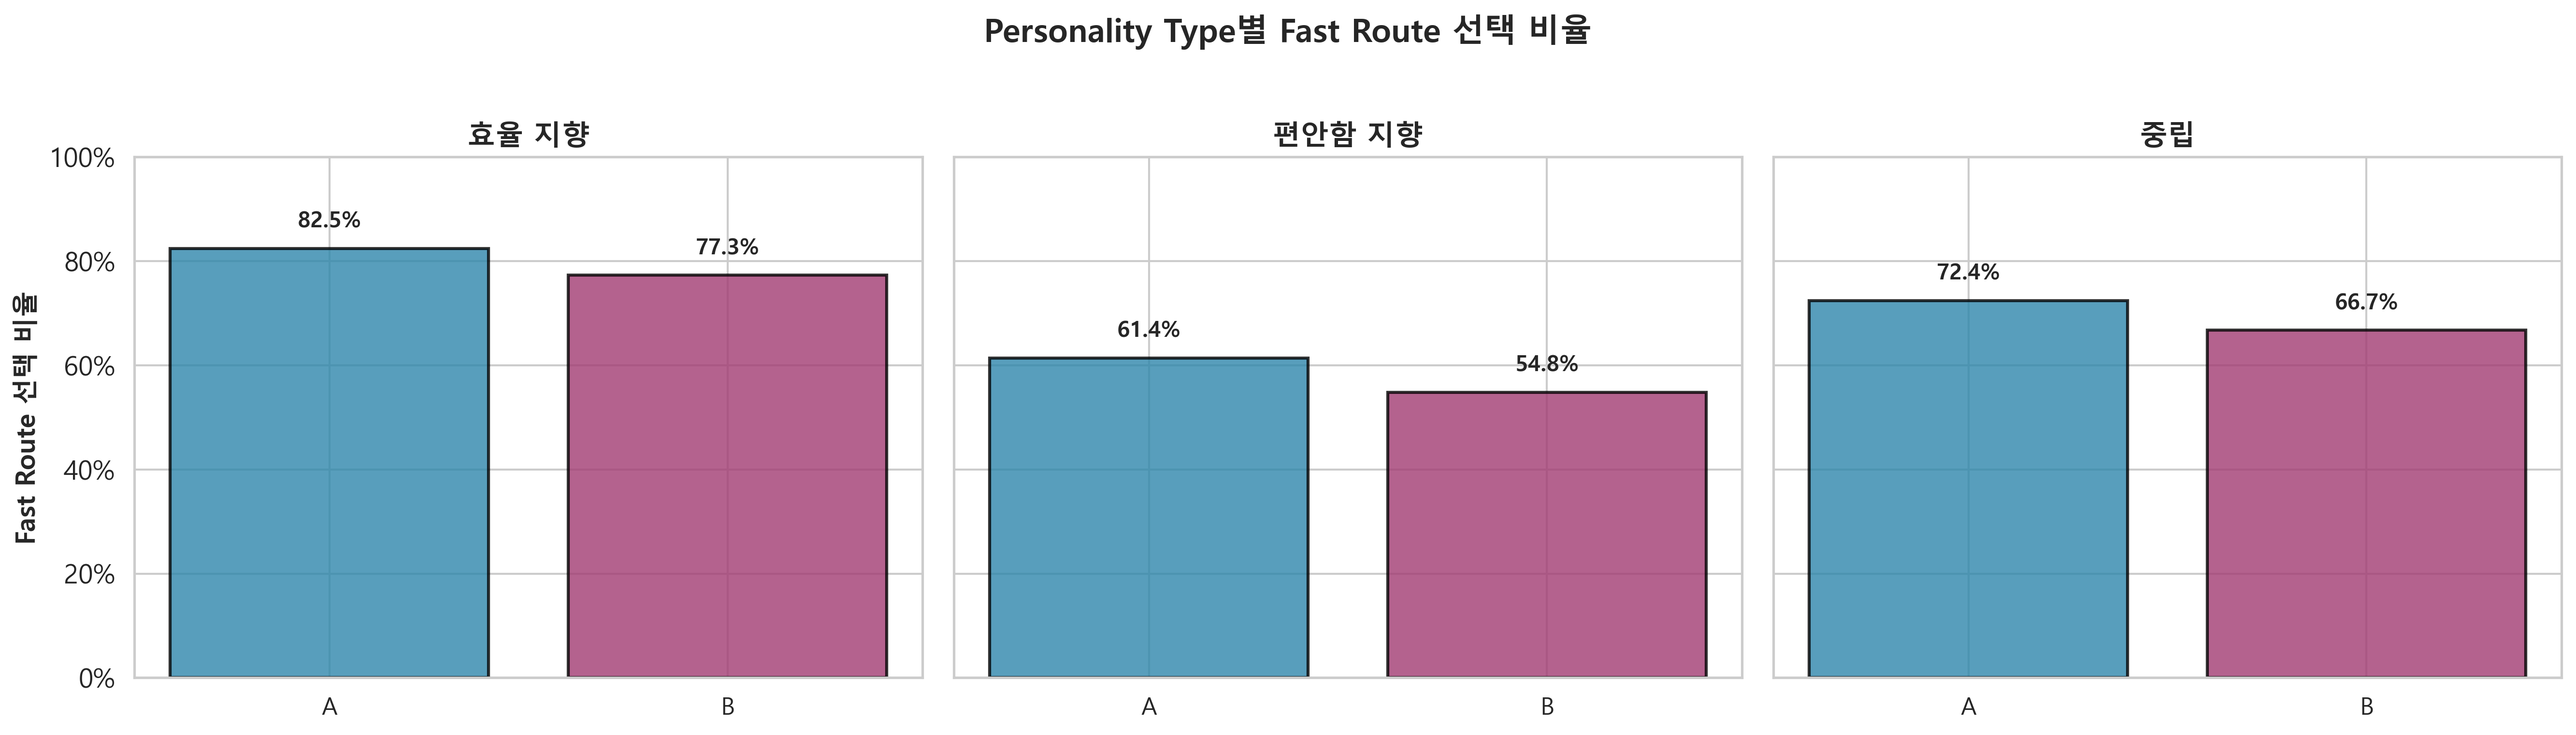
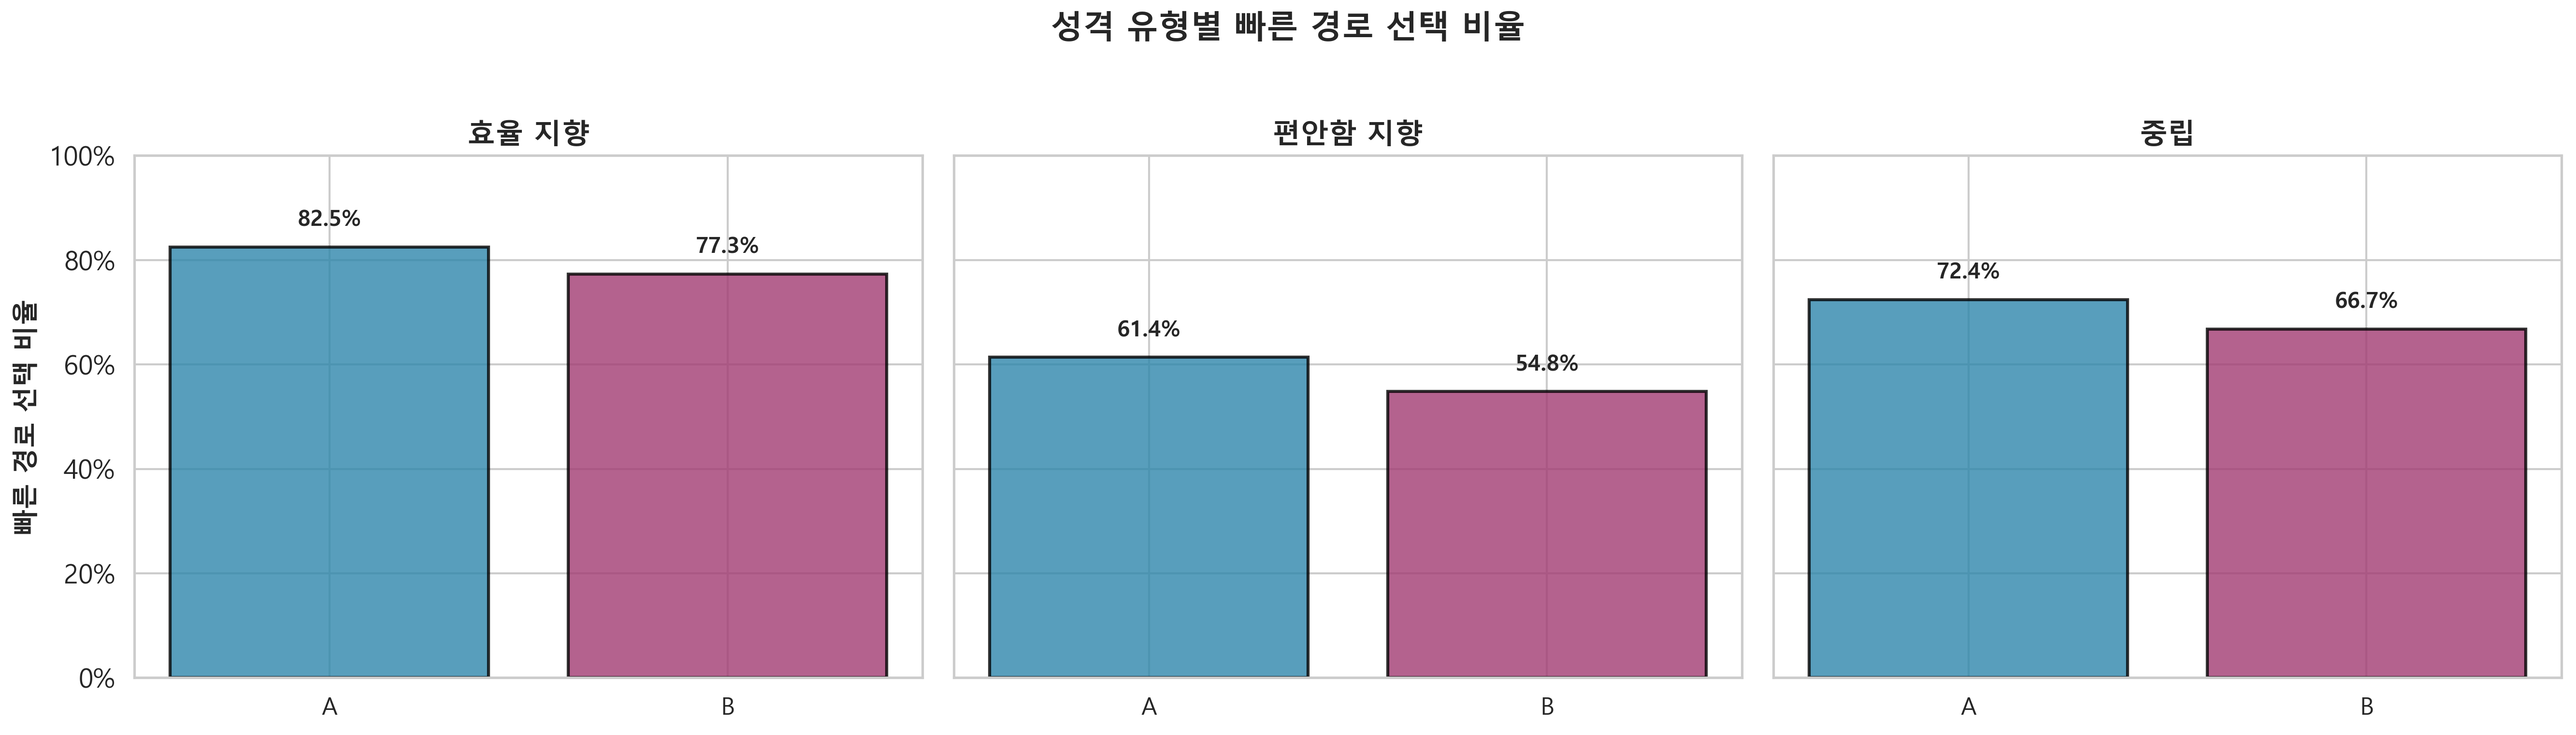
한국어 변환: 시각화/비교분석 그래프 영어 텍스트 한국어로 변경
- Fast Route → 빠른 경로, Relax Route → 여유 경로
- Personality Type → 성격 유형
- Time Pressure → 시간 압박 정도
- Trial → 시행, Boxplot → 박스플롯
- 변경된 matplotlib 차트 7개 재생성 (figures/)

🤖 Generated with [Claude Code](https://claude.com/claude-code)

diff --git a/analysis/visualization.py b/analysis/visualization.py
@@ -138,8 +138,8 @@ def plot_ab_comparison(df, output_dir):
                 ha='center', va='bottom', fontsize=14, fontweight='bold')
 
     ax.set_xlabel('그룹', fontsize=14, fontweight='bold')
-    ax.set_ylabel('Fast Route 선택 비율', fontsize=14, fontweight='bold')
-    ax.set_title('A/B 그룹별 Fast Route 선택 비율 비교',
+    ax.set_ylabel('빠른 경로 선택 비율', fontsize=14, fontweight='bold')
+    ax.set_title('A/B 그룹별 빠른 경로 선택 비율 비교',
                  fontsize=16, fontweight='bold', pad=20)
     ax.set_ylim(0, 1)
     ax.yaxis.set_major_formatter(plt.FuncFormatter(lambda y, _: f'{y*100:.0f}%'))
@@ -201,9 +201,9 @@ def plot_personality_breakdown(df, output_dir):
         ax.yaxis.set_major_formatter(plt.FuncFormatter(lambda y, _: f'{y*100:.0f}%'))
 
         if i == 0:
-            ax.set_ylabel('Fast Route 선택 비율', fontsize=13, fontweight='bold')
+            ax.set_ylabel('빠른 경로 선택 비율', fontsize=13, fontweight='bold')
 
-    fig.suptitle('Personality Type별 Fast Route 선택 비율',
+    fig.suptitle('성격 유형별 빠른 경로 선택 비율',
                  fontsize=16, fontweight='bold', y=1.02)
     plt.tight_layout()
 
@@ -244,9 +244,9 @@ def plot_trial_trends(df, output_dir):
                 'o-', color=color, linewidth=3, markersize=10,
                 label=f'그룹 {group}', alpha=0.8)
 
-    ax.set_xlabel('Trial 번호', fontsize=14, fontweight='bold')
-    ax.set_ylabel('Fast Route 선택 비율', fontsize=14, fontweight='bold')
-    ax.set_title('Trial별 Fast Route 선택 비율 변화 (학습 효과)',
+    ax.set_xlabel('시행 번호', fontsize=14, fontweight='bold')
+    ax.set_ylabel('빠른 경로 선택 비율', fontsize=14, fontweight='bold')
+    ax.set_title('시행별 빠른 경로 선택 비율 변화 (학습 효과)',
                  fontsize=16, fontweight='bold', pad=20)
     ax.set_xticks(range(1, config.NUM_TRIALS + 1))
     ax.set_ylim(0, 1)
@@ -288,15 +288,15 @@ def plot_congestion_heatmap(df, output_dir):
     fig, ax = plt.subplots(figsize=(10, 6))
 
     sns.heatmap(heatmap_pivot, annot=True, fmt='.2%', cmap='RdYlGn',
-                cbar_kws={'label': 'Fast Route 선택 비율'},
+                cbar_kws={'label': '빠른 경로 선택 비율'},
                 linewidths=1, linecolor='white',
                 vmin=0, vmax=1, ax=ax)
 
-    ax.set_xlabel('Time Pressure', fontsize=13, fontweight='bold')
+    ax.set_xlabel('시간 압박 정도', fontsize=13, fontweight='bold')
     # X축 레이블 명시화
     ax.set_xticklabels(['급함(0)', '보통(1)', '여유(2)'])
-    ax.set_ylabel('Personality Type', fontsize=13, fontweight='bold')
-    ax.set_title('Time Pressure × Personality별 Fast Route 선택 비율',
+    ax.set_ylabel('성격 유형', fontsize=13, fontweight='bold')
+    ax.set_title('시간 압박 × 성격 유형별 빠른 경로 선택 비율',
                  fontsize=15, fontweight='bold', pad=20)
 
     # Y축 레이블 변경
@@ -391,7 +391,7 @@ def plot_satisfaction_distribution(df, output_dir):
         patch.set_alpha(0.7)
 
     axes[1].set_ylabel('만족도 점수', fontsize=13, fontweight='bold')
-    axes[1].set_title('만족도 점수 분포 (Boxplot)', fontsize=14, fontweight='bold')
+    axes[1].set_title('만족도 점수 분포 (박스플롯)', fontsize=14, fontweight='bold')
     axes[1].grid(axis='y', alpha=0.3, linestyle='--')
 
     plt.tight_layout()
@@ -418,14 +418,14 @@ def plot_congestion_dynamics(df, output_dir):
 
     ax.plot(trial_congestion['trial_number'], trial_congestion['congestion_fast'],
             'o-', color='#E63946', linewidth=3, markersize=10,
-            label='Fast Route 혼잡도', alpha=0.8)
+            label='빠른 경로 혼잡도', alpha=0.8)
     ax.plot(trial_congestion['trial_number'], trial_congestion['congestion_relax'],
             's-', color='#06A77D', linewidth=3, markersize=10,
-            label='Relax Route 혼잡도', alpha=0.8)
+            label='여유 경로 혼잡도', alpha=0.8)
 
-    ax.set_xlabel('Trial 번호', fontsize=14, fontweight='bold')
+    ax.set_xlabel('시행 번호', fontsize=14, fontweight='bold')
     ax.set_ylabel('평균 혼잡도 (%)', fontsize=14, fontweight='bold')
-    ax.set_title('Trial별 경로 혼잡도 변화 (동적 피드백)',
+    ax.set_title('시행별 경로 혼잡도 변화 (동적 피드백)',
                  fontsize=16, fontweight='bold', pad=20)
     ax.set_xticks(range(1, config.NUM_TRIALS + 1))
     ax.legend(fontsize=12, loc='upper right')
@@ -466,10 +466,11 @@ def plot_learning_effect(df, output_dir):
         ax.text(i, row['next_fast_rate'] + 0.03, f"{row['next_fast_rate']*100:.2f}%",
                 ha='center', va='bottom', fontsize=13, fontweight='bold')
 
+    choice_labels = {'Fast': '빠른 경로', 'Relax': '여유 경로'}
     ax.set_xticks(range(len(learning_stats)))
-    ax.set_xticklabels([f'이전: {choice}' for choice in learning_stats['previous_choice']],
+    ax.set_xticklabels([f'이전: {choice_labels.get(choice, choice)}' for choice in learning_stats['previous_choice']],
                        fontsize=12)
-    ax.set_ylabel('다음 Trial Fast 선택 비율', fontsize=13, fontweight='bold')
+    ax.set_ylabel('다음 시행 빠른 경로 선택 비율', fontsize=13, fontweight='bold')
     ax.set_title('학습 효과: 이전 선택에 따른 다음 선택 변화',
                  fontsize=15, fontweight='bold', pad=20)
     ax.set_ylim(0, 1)

diff --git a/app.py b/app.py
@@ -210,7 +210,7 @@ def page_overview():
     trial_stats.columns = ['Trial', 'Fast 선택률 (%)']
 
     fig = px.line(trial_stats, x='Trial', y='Fast 선택률 (%)',
-                  title='Trial별 Fast 선택률 변화',
+                  title='시행별 빠른 경로 선택률 변화',
                   markers=True, line_shape='spline')
     fig.update_layout(height=400)
     fig.add_hline(y=70, line_dash="dash", line_color="red",
@@ -384,9 +384,9 @@ def page_statistics():
         ))
 
         fig.update_layout(
-            title='Trial별 Fast 선택률 변화',
-            xaxis_title='Trial',
-            yaxis_title='Fast 선택률 (%)',
+            title='시행별 빠른 경로 선택률 변화',
+            xaxis_title='시행',
+            yaxis_title='빠른 경로 선택률 (%)',
             height=500
         )
 
@@ -403,8 +403,8 @@ def page_statistics():
 
         # Personality별 차트
         fig = px.bar(pers_df, x='personality', y='fast_rate',
-                     title='Personality 유형별 Fast 선택률',
-                     labels={'personality': 'Personality 유형', 'fast_rate': 'Fast 선택률'},
+                     title='성격 유형별 빠른 경로 선택률',
+                     labels={'personality': '성격 유형', 'fast_rate': '빠른 경로 선택률'},
                      color='fast_rate',
                      color_continuous_scale='Blues')
 
@@ -525,6 +525,7 @@ def page_interactive():
                     labels={'assigned_group': '그룹', 'percentage': '선택률 (%)', 'selected_route': '경로'},
                     barmode='group',
                     color_discrete_map={'Fast': '#E63946', 'Relax': '#06A77D'})
+        fig.for_each_trace(lambda t: t.update(name='빠른 경로' if t.name == 'Fast' else '여유 경로'))
 
         fig.update_layout(height=500)
         st.plotly_chart(fig, use_container_width=True)
@@ -539,6 +540,7 @@ def page_interactive():
                               'selected_route': '경로'},
                        box=True,
                        color_discrete_map={'Fast': '#E63946', 'Relax': '#06A77D'})
+        fig.for_each_trace(lambda t: t.update(name='빠른 경로' if t.name == 'Fast' else '여유 경로'))
 
         fig.update_layout(height=500)
         st.plotly_chart(fig, use_container_width=True)
@@ -554,12 +556,13 @@ def page_interactive():
                         x='congestion_fast',
                         y='congestion_relax',
                         color='selected_route',
-                        title='Fast 혼잡도 vs Relax 혼잡도 (샘플 5000개)',
-                        labels={'congestion_fast': 'Fast 경로 혼잡도',
-                               'congestion_relax': 'Relax 경로 혼잡도',
+                        title='빠른 경로 혼잡도 vs 여유 경로 혼잡도 (샘플 5000개)',
+                        labels={'congestion_fast': '빠른 경로 혼잡도',
+                               'congestion_relax': '여유 경로 혼잡도',
                                'selected_route': '선택한 경로'},
                         opacity=0.5,
                         color_discrete_map={'Fast': '#E63946', 'Relax': '#06A77D'})
+        fig.for_each_trace(lambda t: t.update(name='빠른 경로' if t.name == 'Fast' else '여유 경로'))
 
         # 대각선 추가
         fig.add_shape(type='line',
@@ -585,8 +588,8 @@ def page_interactive():
 
         fig = px.line(fast_stats, x='trial_number', y='percentage',
                      color='assigned_group',
-                     title='Trial별 Fast 선택률 변화',
-                     labels={'trial_number': 'Trial', 'percentage': 'Fast 선택률 (%)',
+                     title='시행별 빠른 경로 선택률 변화',
+                     labels={'trial_number': '시행', 'percentage': '빠른 경로 선택률 (%)',
                             'assigned_group': '그룹'},
                      markers=True,
                      color_discrete_map={'A': '#2E86AB', 'B': '#A23B72'})
@@ -611,8 +614,10 @@ def sidebar():
     st.sidebar.markdown("""
     ### 프로젝트 정보
 
-    **버전**: DAY 6 (수정본)
-    **날짜**: 2025-07 ~ 2025-08
+    **버전**: DAY 6 (최종)
+    **전체 기간**: 2025-09 ~ 2025-11 (2.5개월)
+    **작업 기간**: 약 5주 (순수 개발)
+    **중단 기간**: 3주 (대학 일정)
     **데이터**: 100,000 users × 5 trials
 
     ### 주요 기능
